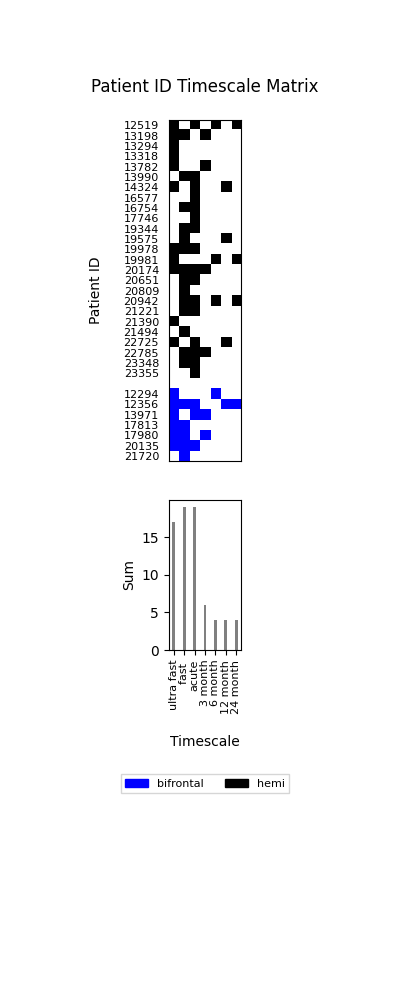
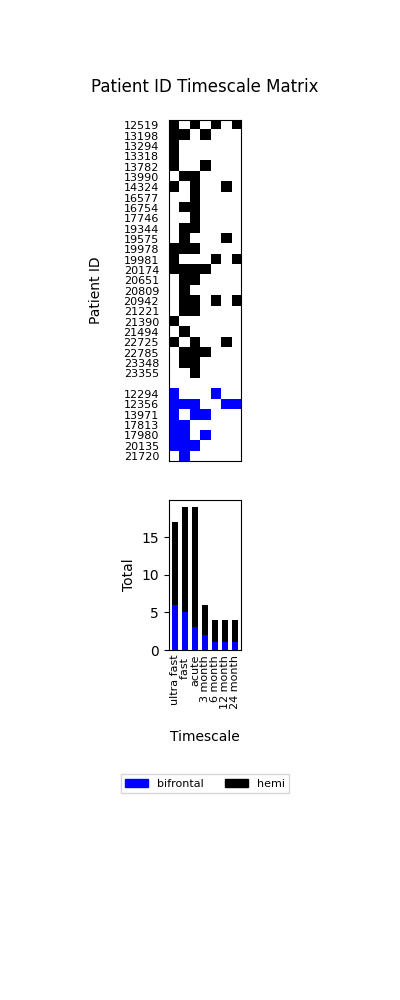
update to bar chart and figure to to stacked bar chart and correct colours

Changed region(s): [[0.42, 0.496, 0.6, 0.744], [0.3, 0.558, 0.33, 0.589]]

diff --git a/python_scripts/patient_timeline_matrix.py b/python_scripts/patient_timeline_matrix.py
@@ -31,7 +31,8 @@ cmap = mcolors.ListedColormap(['white', 'black', 'blue'])
 bounds = [0, 1, 2, 3]
 norm = mcolors.BoundaryNorm(bounds, cmap.N)
 
-column_sums = trimmed_data.sum()
+
+
 
 # MATRIX ONLY 
 
@@ -122,20 +123,23 @@ ax1.legend(handles=[blue_patch, black_patch], loc='upper center', bbox_to_anchor
 
 # Calculate the column sums of trimmed_data
 column_sums = trimmed_data.sum()
+bifrontal_sums = trimmed_data.iloc[-7:, :].sum()
+hemi_sums = trimmed_data.iloc[:25, :].sum()
+barchart_df = pd.concat([bifrontal_sums, hemi_sums], axis=1, keys=['Bifrontal', 'Hemi'])
 
 # Create a new axis for the bar chart in the second row
 ax2 = plt.subplot(gs[1])
 
 # Create the bar chart with the same width as the matrix plot
-bar_width = 2/len(x_labels)  # Adjust the bar width as needed
-ax2.bar(x_labels, column_sums, color='gray', width=bar_width)
-ax2.set_ylabel('Sum')
+bar_width = 4/len(x_labels)  # Adjust the bar width as needed
+#ax2.bar(x_labels, column_sums, color='gray', width=bar_width)
+ax2.bar(x_labels, barchart_df['Bifrontal'], color='blue', width=bar_width, label='Bifrontal')
+ax2.bar(x_labels, barchart_df['Hemi'], color='black', width=bar_width, bottom=barchart_df['Bifrontal'], label='Hemi')
+ax2.set_ylabel('Total')
 ax2.set_xticks(ticks=range(len(x_labels)))
 ax2.set_xticklabels(x_labels, rotation=90, fontsize=8)
+ax2.tick_params(axis='x', length=0)
 ax2.set_xlabel("Timescale", labelpad=15)
-
-# Omit x-axis labels for the second bar chart
-#ax2.set_xticklabels([])
 
 # Adjust subplot parameters for the main plot to add more white space at the bottom
 plt.subplots_adjust(hspace=0.5)
@@ -159,3 +163,4 @@ plt.savefig('python_scripts/patient_timeline_matrix_and_sums.png')
 
 # Show the combined figure
 plt.show()
+
